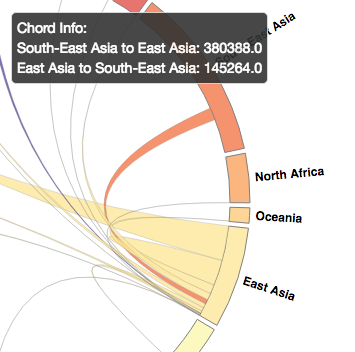
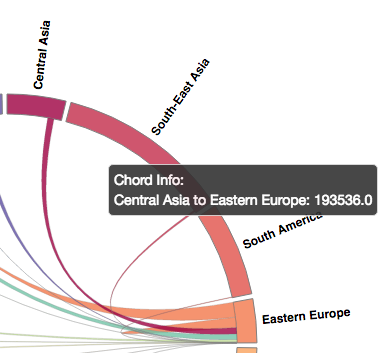
FIX chord label

diff --git a/ChordDiagram/D3_template_ChordDiagram.html b/ChordDiagram/D3_template_ChordDiagram.html
@@ -76,6 +76,7 @@ body, html { overflow: scroll; height: 100% }
         <div class="tab-pane active" id="a_tab">
             <h1>Graph</h1>
             <acontent><div id='vis'>
+              <div id="tooltip"></div>
               <svg class='chart-outer'><g class="chart"></g></svg>
             </div>
             </acontent>
@@ -84,21 +85,21 @@ body, html { overflow: scroll; height: 100% }
         <div class="tab-pane" id="b_tab">
             <h1>Info</h1>
           	<h2>Introduction</h2>
-          	<p>This section provides a manual for the Word Cloud visualization. It explains the meaning of the inputs, the correct specification of the input data table and known issues.</p>
+          	<p>This section provides a manual for theChord Diagram visualization. It explains the meaning of the inputs, the correct specification of the input data table and known issues.</p>
           	<h2>Inputs</h2>
-          	<img src="https://github.com/pcooman/d3_tools/blob/master/WordCloud/WordCloud_Toolbar_empty.png?raw=true">
+          	<img src="https://github.com/pcooman/d3_tools/blob/master/ChordDiagram/ChordDiagram_Toolbar_empty.png?raw=true">
     				<ul>
-              <li><b>Words:</b> A dropdown menu to select the column in the data table that contains the words.</li>
-              <li><b>Counts:</b> A dropdown menu to select the column in the data table that contains the word count.</li>
-              <li><b>Min Font Size:</b> An input form to specifiy the minimum font size. This will be the font of the least frequent word. This value increments and decrements in steps of size 5 and has been set to 0 by default.</li>
-              <li><b>Max Font Size:</b> An input form to specify the maximum font size. This will be the font size of the most frequent word. This value increments and decrements in steps of size 5 and has been set to 75 pixels by default.</li>
+              <li><b>Origins:</b> A dropdown menu to select the column in the data table that contains the origins of the flows you want to visualize. This should be a categorical variable.</li>
+              <li><b>Destinations:</b> A dropdown menu to select the column in the data table that contains the destinations of the flows. These should cover the same categories as specified in the <i>Origins</i>.</li>
+              <li><b>Counts:</b> A dropdown menu to select the column in the data table that contains the magnitude of the flow. This can be any numerical value, reflecting an absolute value or a percentage.</li>
+              <li><b>Reset graph</b> A button that allows the user to reset the graph. Whenever you hover over a category, it will fade out all flows that do not start or end in that category. Hovering over a different category selects the related flows to that new category. If you want to bring back the view that shows all flows for all categories, press the <i>Reset Graph</i> button.</li>
             </ul>
           	<h2>Data table</h2>
-          	<p>To get the correct visualization, the data table needs to be organized as 								follows:<p>
-          	<img src="https://github.com/pcooman/d3_tools/blob/master/WordCloud/WordCloud_Table.png?raw=true">
-          	<p>Each row in the table should correspond to a single word. If a word appears twice, it will be plotted twice. You are responsible for removing duplicate rows. You will need at least one column with words and at least one column with corresponding word counts. The table can contain additional columns, the toolbar will let you select the columns that are relevant to the plot.</p>
+          	<p>To get the correct visualization, the data table needs to be organized as follows:<p>
+          	<img src="https://github.com/pcooman/d3_tools/blob/master/ChordDiagram/ChordDiagram_Table.png?raw=true">
+          	<p>Each row in the table should correspond to a single flow from an origin to a destination. You can have multiple columns for each category (<i>Origins</i>, <i>Destinations</i> and <i>Counts</i>. The toolbar will let you select the columns that are relevant to the plot. You do not need to include every possible origin to destination combination. For example, if your data contains (origin:A, destination:B, count:X), but not the reverse path (origin:B, destination:A, count:Y), the visualization will still work (automatically sets Y = 0).</p>
           	<h2>Known issues</h2>
-          	<p>If you set the font size too large, not all words will be able to fit inside the plotting window. In that case, the template drops the largest, most frequent words. We recoomend that you start by selecting a small Max Font Size and then gradually increase the font size while monitoring the largest words. </p>
+          	<p>No known issues at this time.</p>
             <bcontent></bcontent>
         </div>
       
@@ -290,28 +291,35 @@ draw = function(data, vis_width, vis_height, params) {
         .style("fill", function(d) { 
           return d3.interpolateSpectral(d.source.index/14.0); })
         .attr("d", d3.svg.chord().radius(r0))
-        //.on("mouseover", mouseover_chord)
+        .on("mouseover", function (d) {
+                  d3.select("#tooltip")
+                    .style("visibility", "visible")
+                    .html(chordTip(rdr(d)))
+                    .style("top", function () { return (d3.event.pageY - 170)+"px"})
+                    .style("left", function () { return (d3.event.pageX - 100)+"px";})
+                })
         .on("mouseout", function (d) {
           // d3.selectAll(".chord.fade").attr("class","chord")
           d3.select("#tooltip").style("visibility", "hidden") 
         });
 
     function chordTip (d) {
-        var p = d3.format(".1%"), q = d3.format(",.2r")
+        var p = d3.format(".1f"), q = d3.format(",.2r")
         return "Chord Info:<br/>"
-        +  d.sname + " → " + d.tname
+        +  d.sname + " to " + d.tname
         + ": " + p(d.svalue) + "<br/>"
-        + d.tname + " → " + d.sname
+        + d.tname + " to " + d.sname
         + ": " + p(d.tvalue) + "<br/>";
         }
           
     function groupTip (d) {
-        var p = d3.format(".1%"), q = d3.format(",.2r")
+        var p = d3.format(".1f"), q = d3.format(",.2r")
         return "Group Info:<br/>"
         + d.gname + " : " + p(d.gvalue) + "<br/>";
         }
 
     function mouseover_path(d, i) {
+      debugger;
         d3.select("#tooltip")
         .style("visibility", "visible")
         .html(groupTip(rdr(d)))
@@ -341,18 +349,6 @@ draw = function(data, vis_width, vis_height, params) {
     drawChords(mpr.getMatrix(), mpr.getMap());
   }
 }
-
-var showDetails = function(data, element) {
-  pos = $(element).position()
-  $("#chart-tooltip").html(data)
-  width = $("#chart-tooltip").width()
-  height = $("#chart-tooltip").height()
-  $("#chart-tooltip").css('top', (pos.top-height*2.5)+'px').css('left', (pos.left-width/2.0)+'px')
-  $("#chart-tooltip").show()
-};
-var hideDetails = function() {
-  $("#chart-tooltip").hide()
-};
 
 //////////////////////////////////////////////////////////
 // Chart Edit Toolbar Code
@@ -397,6 +393,28 @@ var createToolbar = function(data, params) {
       }
     }(dim));
   }
+  
+  $("#toolbar").append("<div id='buttons' style='height:75px;'>")
+  
+  svg = d3.select("#buttons").append('svg').attr('height', 600).attr('width', 200)
+	rect = svg.append('rect').attr('width', 100)
+                .attr('height', 50)
+                .attr('x', 0)
+                .attr('y', 0)
+                .attr('rx', 20)
+                .attr('ry', 20)
+                .style('fill', 'rgb(31,119,180)')
+                //.attr('stroke', 'black')
+  							.on("click", function() {d3.selectAll(".chord.fade").attr("class","chord");})
+  							
+	text = svg.append('text').text('Reset Graph')
+                .attr('x', 50)
+                .attr('y', 30)
+                .style('fill', 'white')
+  							.style("font-weight", "bold")
+  							.style("font-size", "12px")
+  							.attr("text-anchor", "middle")
+  							.on("click", function() {d3.selectAll(".chord.fade").attr("class","chord");})
 };
 // Handle config blob, download the csv from the url, create the toolbar
 // and init the graph with the resulting parameters.
@@ -411,8 +429,7 @@ var prepChart = function(config) {
   }
   def_vis_height = 1200;
   // tooltips
-  $("#vis").append("<div class='tooltip' id='chart-tooltip'></div>");
-  $("#chart-tooltip").hide();
+  
   d3.csv(config['dataUrl'], function(error, data) {
     if(config['mode'] == 'edit') {
       createToolbar(data, params);
